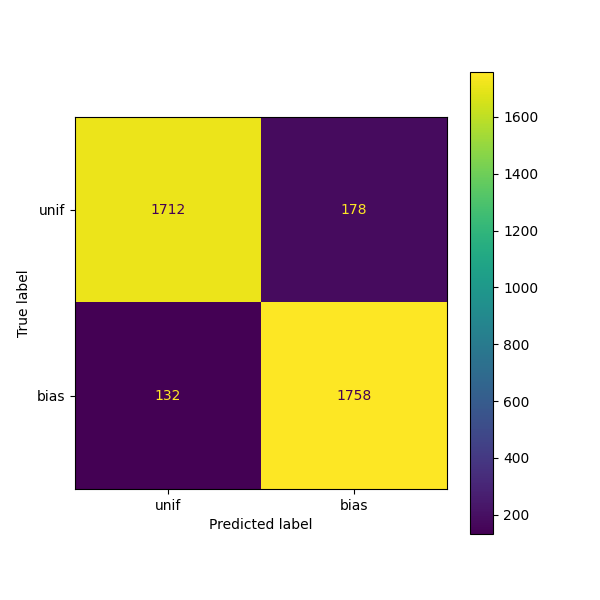
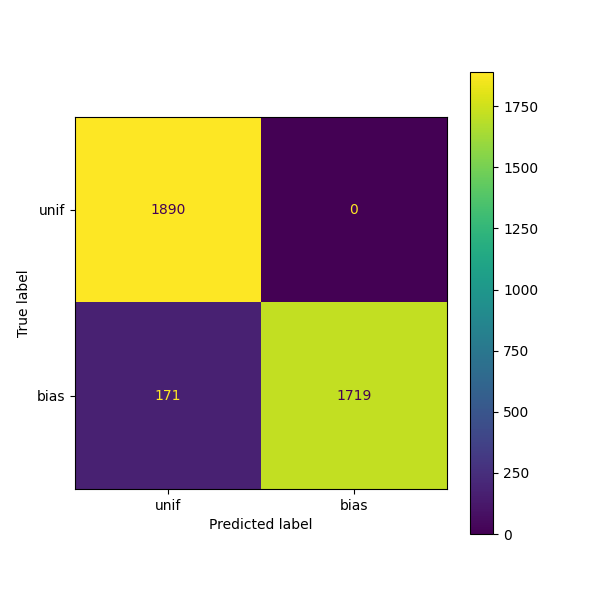
dim 30 reports

diff --git a/class_rates.py b/class_rates.py
@@ -68,8 +68,8 @@ rep = 10
 #if __name__=='__main__':
 #dim = int(sys.argv[1])
 #n_samples = int(sys.argv[1])
-for dim in [1,10,20,30]:
-    for n_samples in [30,50,100,600]:#,
+for dim in [30]:
+    for n_samples in [600]:#,
         #load data
         scenes = get_scens_per_dim()
         per_label = {"unif":0, "bias":0}
